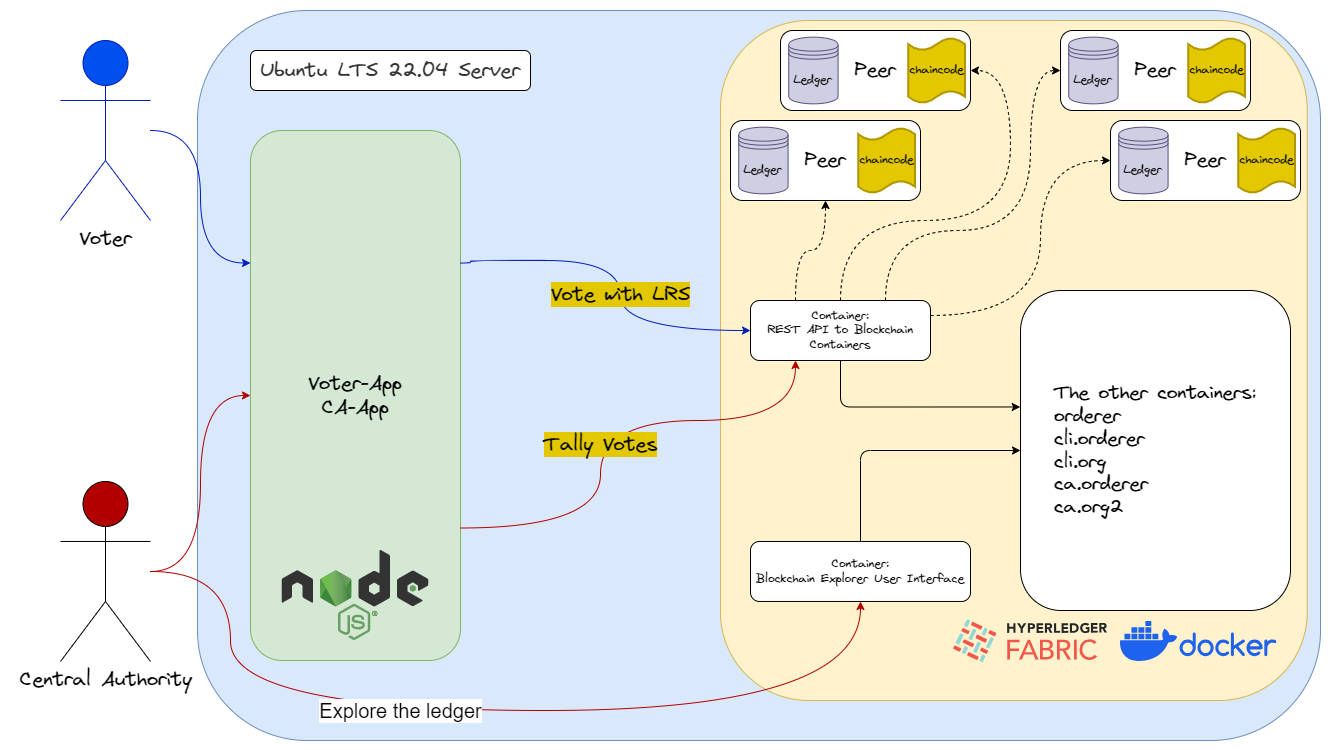
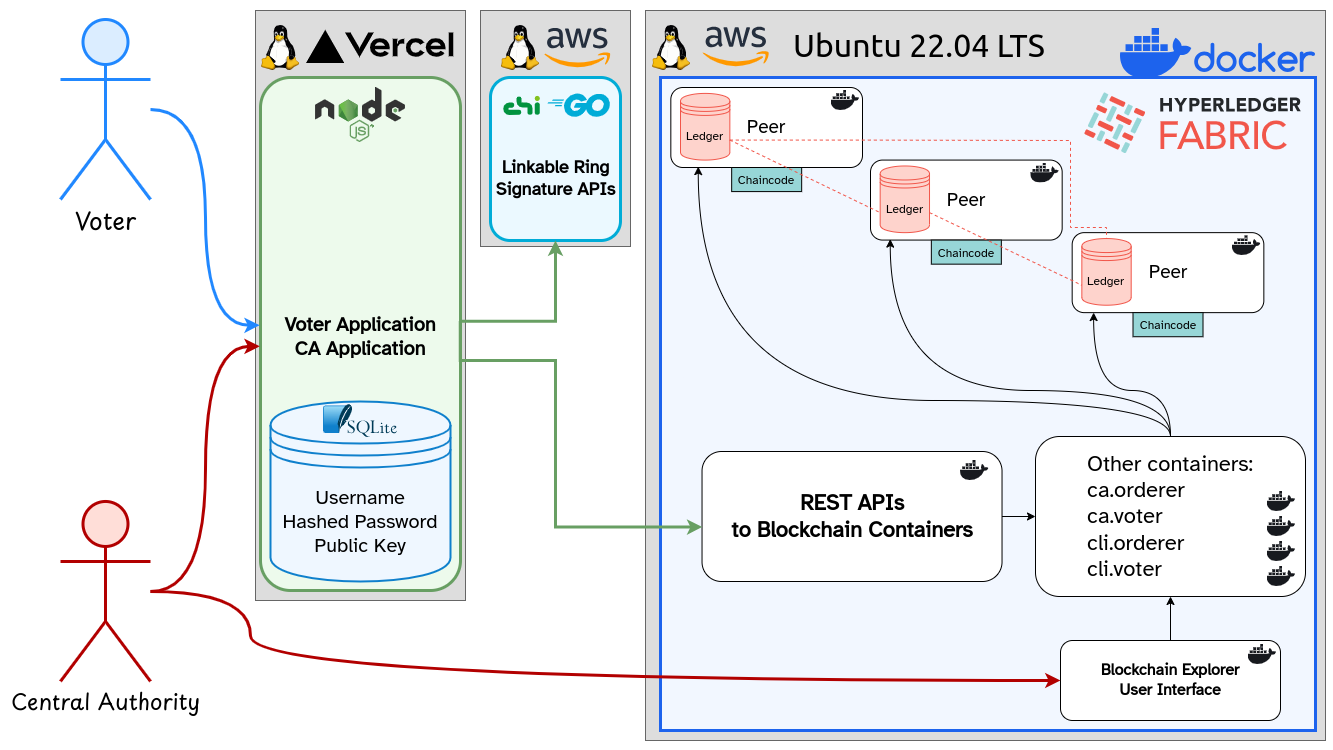
docs: update overview, architecture diagram

diff --git a/docs/documentation/developer-documentation/overview.md b/docs/documentation/developer-documentation/overview.md
@@ -4,28 +4,44 @@ sidebar_position: 1
 
 # Overview
 
-<!-- code block -->
+(This page is a work in progress)
+
+
+[//]: # (This is a comment. Follow this format for comments.)
+
+
+#### Code Blocks
+[//]: # (code block)
+
 ```sh
-git clone git@github.com:QuantumSecureVote/website.git
+git clone git@github.com:SentinelVote/website.git
 ```
 
-<!-- diagrams -->
+#### Mermaid: sequenceDiagram
+[//]: # (diagrams)
+
 ```mermaid
 sequenceDiagram
-    Alice->>John: Hello John, how are you?
-    John-->>Alice: Great!
-    Alice-)John: See you later!
+    Alice->>Bob: Hello Bob, how are you?
+    Bob-->>Alice: Great!
+    Alice-)Bob: See you later!
 ```
 
-<!-- links -->
+#### Links
+[//]: # (links)
+
 [hello](https://example.com)
 
-<!-- quotations -->
+#### Quotations
+[//]: # (quotations)
 
-> ewejsadlfjaksdjfa \
-> hello
->> kke
+> Quotations \
+> Multi-line quotations
+>> Nested quotations
 
-<!-- regular text -->
-ddadf \
-adsfa
+#### Regular Text
+[//]: # (regular text)
+
+Regular text
+\
+breakline, same paragraph

diff --git a/docs/documentation/overview.md b/docs/documentation/overview.md
@@ -4,8 +4,6 @@ sidebar_position: 1
 
 # Overview
 
-(coverage of)
-hyperledger
-lrs
-
-link to papers
+SentinelVote is an implementation of an e-voting system using Hyperledger Fabric and Linkable Ring Signatures.
+Our implementation aligns with the existing contributions made to the construction of e-voting systems using Fabric,
+bolstering security measures.
